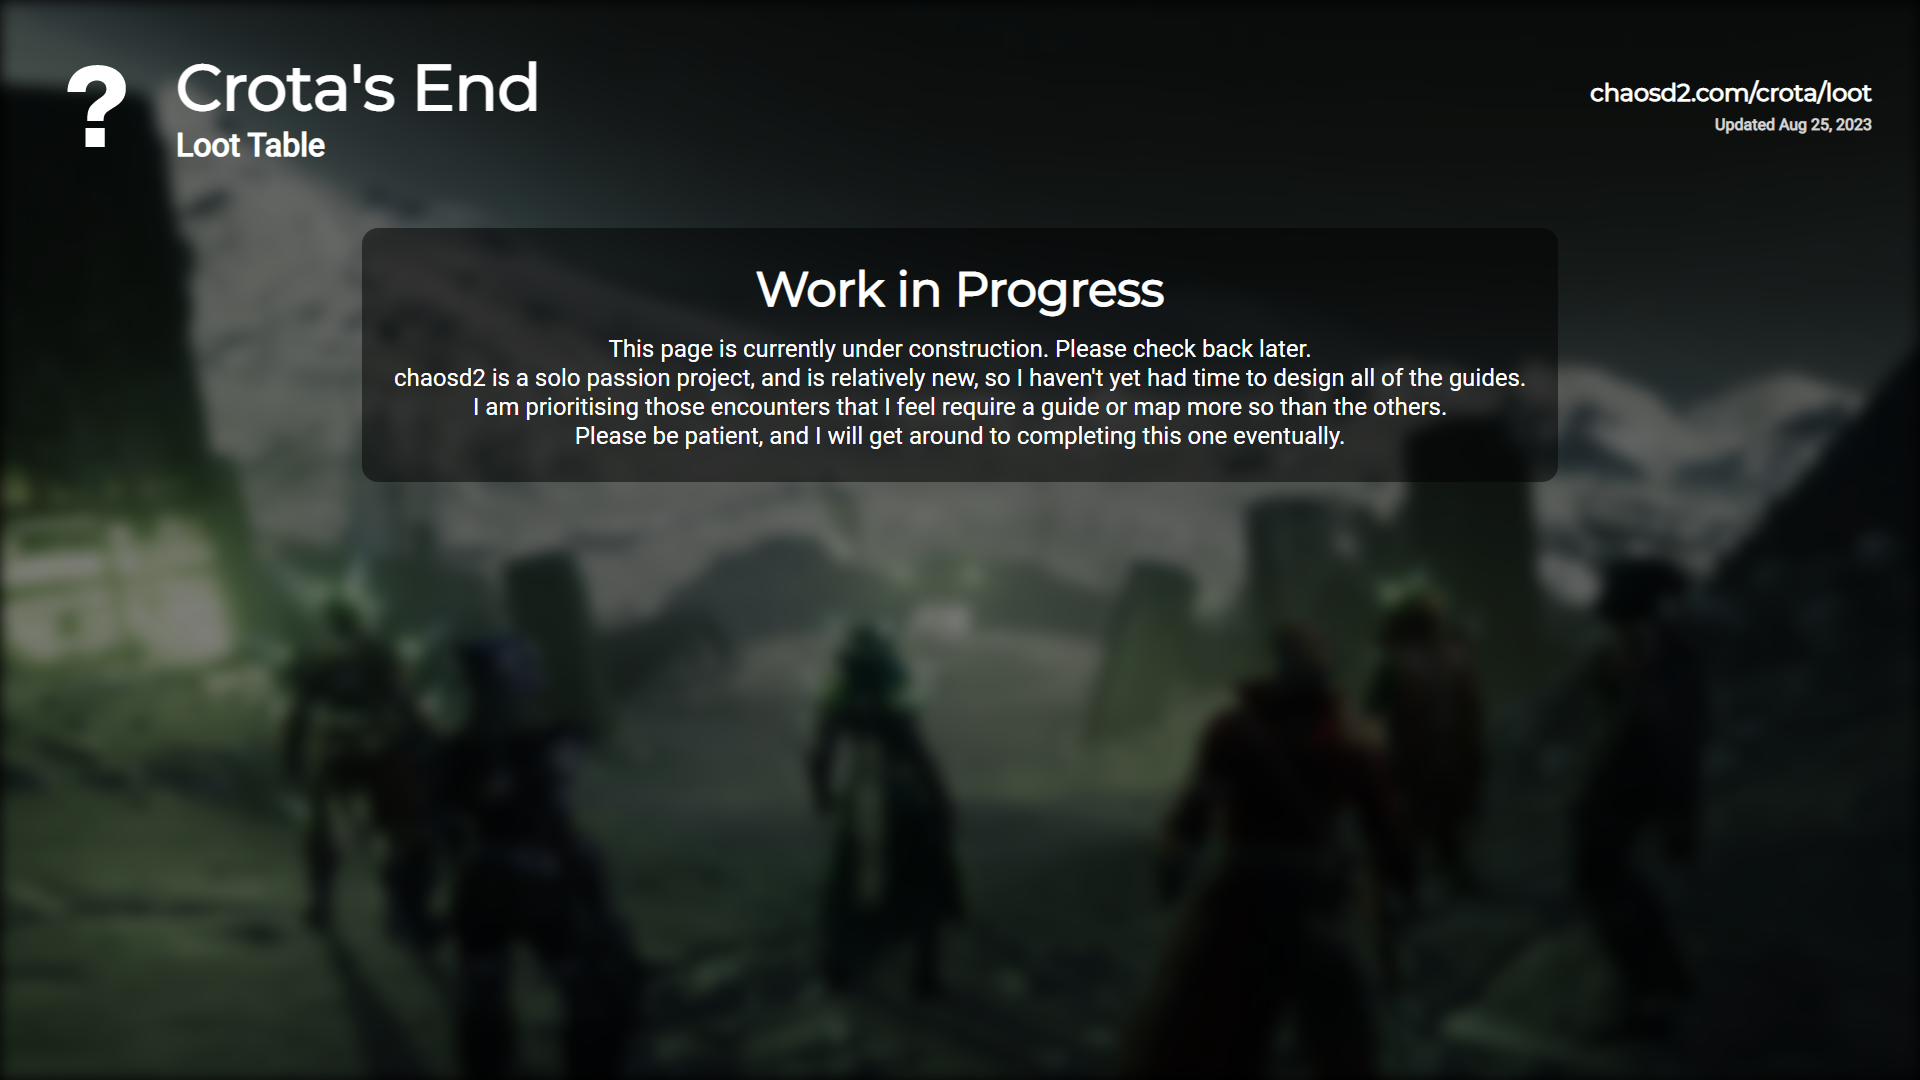
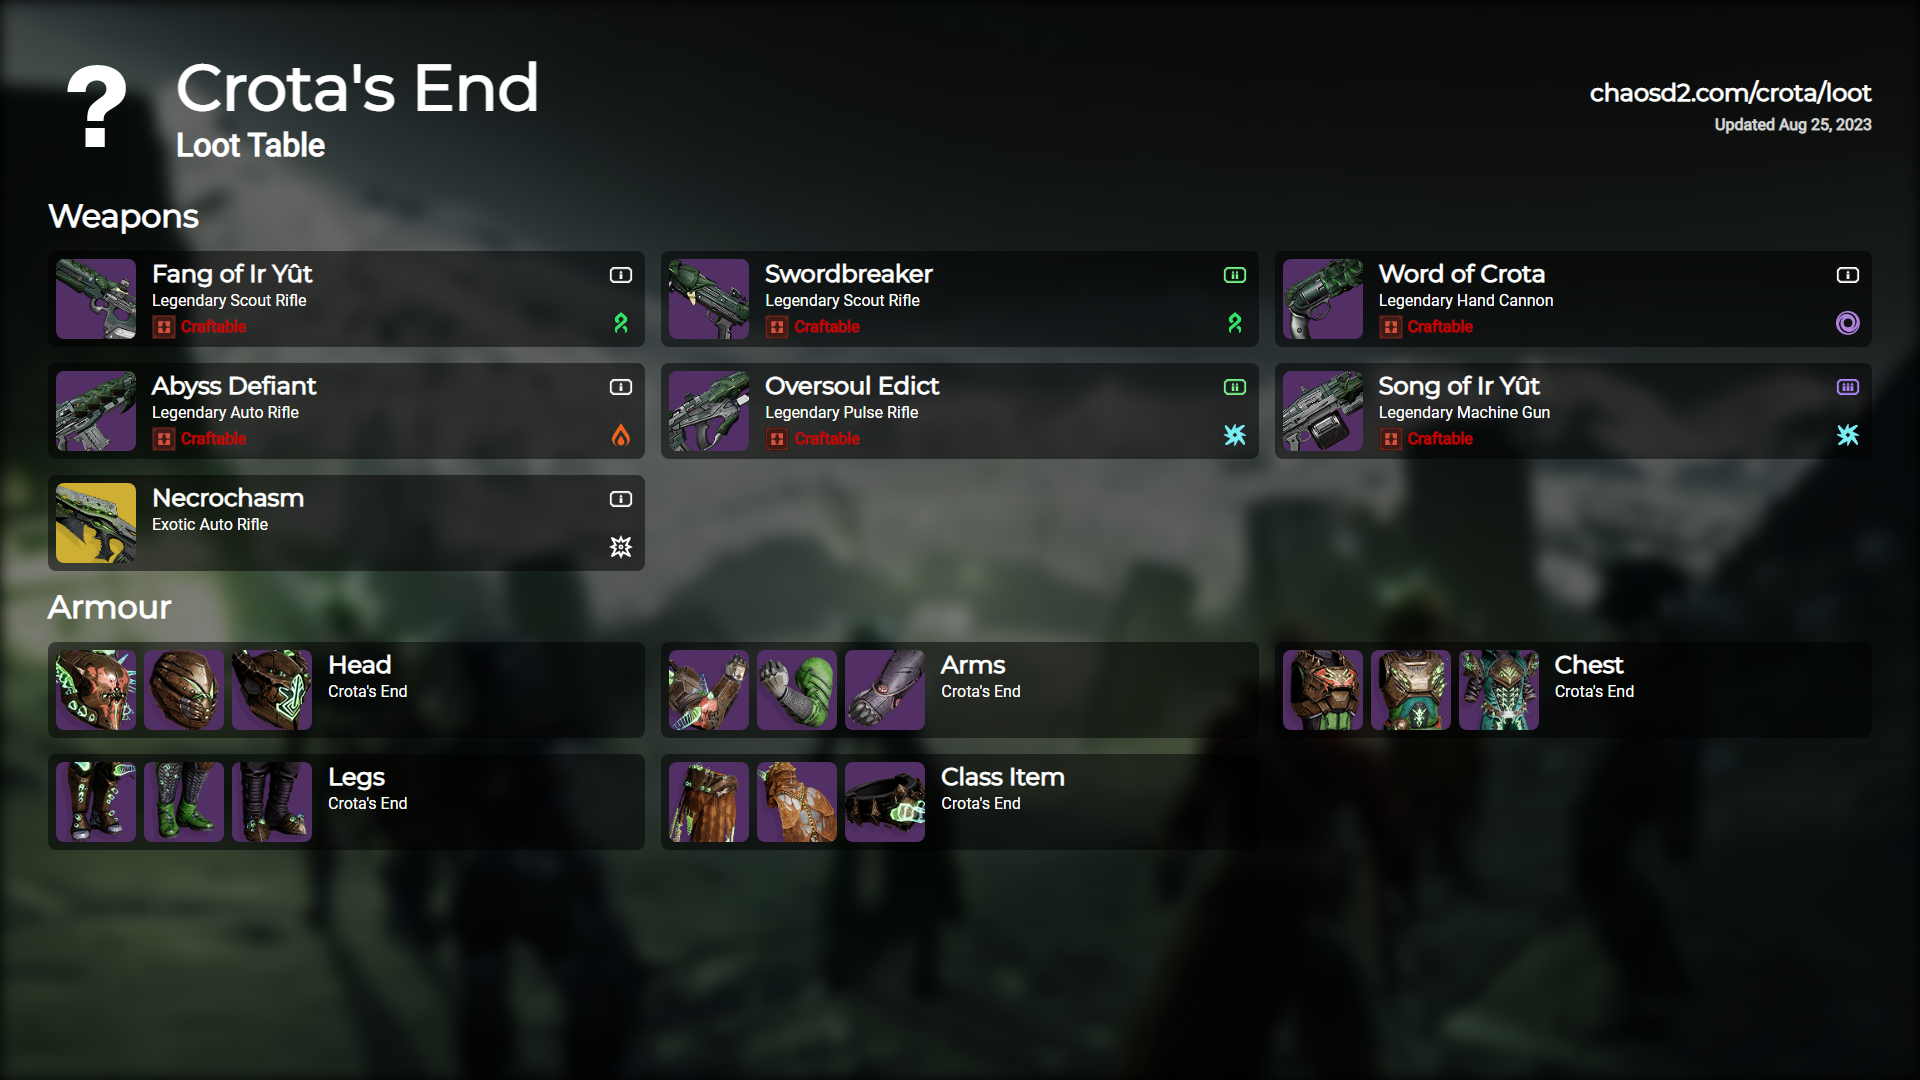
Added temporary crota's end loot table

diff --git a/src/app/image_sources/raids/crotas_end/loot/page.js b/src/app/image_sources/raids/crotas_end/loot/page.js
@@ -4,7 +4,10 @@ import Background from "@backgrounds/crotas_end.jpg";
 import styles from "@image_components/LootTable.module.css";
 import Image from "next/image";
 import ImageHeader from "@image_components/ImageHeader";
+import tempstyles from "./tempstyles.module.css";
 import ImageUnderConstruction from "@image_components/ImageUnderConstruction";
+import ItemInsert from "@image_components/ItemInsert";
+import ArmourInsert from "@image_components/ArmourInsert";
 
 export const metadata = {
     other: {
@@ -13,83 +16,86 @@ export const metadata = {
     }
 }
 
+const items = {
+    "scout_rifle": "1432682459",
+    "shotgun": "3163900678",
+    "hand_cannon": "120706239",
+    "auto_rifle": "833898322",
+    "pulse_rifle": "1098171824",
+    "machine_gun": "2828278545",
+    "exotic": "1034055198",
+}
+
 const data = {
     encounters: [
         {
-            name: "Crypt Security",
+            name: "The Pit",
             "items": [
-                "1392919471",
+                "1432682459",
+                "3163900678"
             ],
             "armour": [
-                "Arms",
-                "Legs",
-                "Class Item"
             ]
         },
         {
-            name: "Atraks-1",
+            name: "The Bridge",
             "items": [
-                "4248569242",
-                "2990047042"
+                "120706239",
+                "833898322",
             ],
             "armour": [
-                "Arms",
-                "Legs",
-                "Class Item"
             ]
         },
         {
-            name: "Nuclear Descent",
+            name: "Ir Yût, the Deathsinger",
             "items": [
-                "3281285075",
+                "1098171824",
+                "2828278545"
             ],
             "armour": [
-                "Arms",
-                "Chest",
-                "Class Item"
             ]
         },
         {
-            name: "Taniks, the Abomination",
+            name: "Crota, Son of Oryx",
             "items": [
-                "3366545721",
-                "4230965989",
-                "2399110176"
+                "1034055198"
             ],
             "armour": [
                 "Head",
+                "Arms",
                 "Chest",
                 "Legs",
+                "Class Item"
             ]
         }
     ],
     armour: {
-        set: "Legacy's Oath",
+        set: "Crota's End",
         hashes: {
             "Head": [
-                "3015085684",
-                "893751566",
-                "1462908657"
+                "1328334240",
+                "859929450",
+                "1964816829"
             ],
             "Arms": [
-                "1887490701",
-                "2343515647",
-                "79460168"
+                "3189374833",
+                "441033139",
+                "427348780"
             ],
             "Chest": [
-                "751162931",
-                "4001862073",
-                "3975122240"
+                "1261894567",
+                "3714937821",
+                "1386180724"
             ],
             "Legs": [
-                "2558289743",
-                "1264765761",
-                "756445218"
+                "3020524483",
+                "175883909",
+                "1497538390"
             ],
             "Class Item": [
-                "2956588906",
-                "1021060724",
-                "2902277629"
+                "2401746614",
+                "1306415888",
+                "2130010697"
             ]
         }
     }
@@ -102,11 +108,26 @@ function temp() {
         <div className={styles.wrapper}>
             <ImageHeader title={"Crota's End"} subtitle={"Loot Table"} icon={BungieIcons.raids.crotas_end} href={"chaosd2.com/crota/loot"}/>
             <div className={styles.content}>
-                <ImageUnderConstruction/>
+                <h2 className={tempstyles.title}>Weapons</h2>
+                <div className={tempstyles.weapons}>
+                    {Object.keys(items).map((key) => {
+                        return (
+                            <ItemInsert key={key} item_hash={items[key]}/>
+                        )
+                    })}
+                </div>
+                <h2 className={tempstyles.title}>Armour</h2>
+                <div className={tempstyles.armour}>
+                    {Object.keys(data.armour.hashes).map((key) => {
+                        return (
+                            <ArmourInsert key={key} armour_hashes={data.armour.hashes[key]} slot_name={key} set_name={"Crota's End"}/>
+                        )
+                    })}
+                </div>
             </div>
         </div>
         </body>
-    );
+    )
 }
 
 export default function CrotaLoot() {

diff --git a/src/app/image_sources/raids/crotas_end/loot/tempstyles.module.css b/src/app/image_sources/raids/crotas_end/loot/tempstyles.module.css
@@ -1,0 +1,17 @@
+.weapons {
+    display: grid;
+    grid-template-columns: repeat(3, 1fr);
+    column-gap: 1rem;
+}
+
+.armour {
+    display: grid;
+    grid-template-columns: repeat(3, 1fr);
+    column-gap: 1rem;
+}
+
+.title {
+    font-size: 2rem;
+    font-weight: 600;
+    margin-bottom: 1rem;
+}
